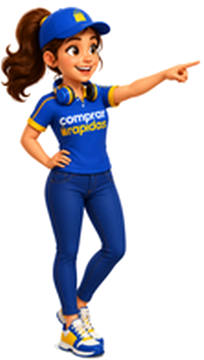
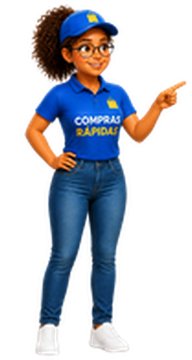
Guia: a Karol (cabelo cacheado e óculos) substitui a Lia nas 4 poses
Claude-Session: https://claude.ai/code/session_01DULqfom5GzjKtfTScVqHcy

diff --git a/js/tour/etapas.js b/js/tour/etapas.js
@@ -9,7 +9,7 @@
 //   botoes  quais botões aparecem: 'proximo', 'nao-mostrar' (boas-vindas), 'concluir' e 'desativar' (final)
 export const ETAPAS = [
   { id: 'boas-vindas', alvo: null, botoes: ['proximo', 'nao-mostrar'],
-    texto: 'Oi! Eu sou a <b>Lia</b>, sua guia na <b>Compras Rápidas</b>. Posso te mostrar a loja rapidinho?' },
+    texto: 'Oi! Eu sou a <b>Karol</b>, sua guia na <b>Compras Rápidas</b>. Posso te mostrar a loja rapidinho?' },
   { id: 'pesquisa', alvo: 'header form[role=search]', botoes: ['proximo'],
     texto: 'Procurando algo? Digite aqui na <b>pesquisa</b> o nome do produto e toque na lupa 🔍.' },
   { id: 'carrossel', alvo: '.car', botoes: ['proximo'],

diff --git a/js/tour/personagem.js b/js/tour/personagem.js
@@ -12,7 +12,7 @@
 //   };
 //
 // Se faltar alguma pose, o guia usa a imagem "parado" no lugar.
-// Personagem atual: a Lia (imagens em img/guia/, 204×360, olhando para a direita).
+// Personagem atual: a Karol (imagens em img/guia/, 192×360, olhando para a direita).
 const aqui = (f) => new URL('../../img/guia/' + f, import.meta.url).href;   // funciona em qualquer página do site
 export const IMAGENS = {
   parado: aqui('parado.png'),

diff --git a/PAINEL-ADMIN.md b/PAINEL-ADMIN.md
@@ -147,7 +147,7 @@ O gatilho que preenche os códigos é à prova de falha: um erro nele nunca impe
 
 ## Guia da loja (mascote)
 
-A **Lia** mostra a loja (imagens em `img/guia/`: parado, andando, apontando e acenando). Se as imagens forem tiradas de `personagem.js`, volta o boneco desenhado. Ele só aparece no **Início** e só é carregado depois que a página termina de abrir. Se der qualquer erro no guia, ele some e a loja continua normal.
+A **Karol** mostra a loja (imagens em `img/guia/`: parado, andando, apontando e acenando). Se as imagens forem tiradas de `personagem.js`, volta o boneco desenhado. Ele só aparece no **Início** e só é carregado depois que a página termina de abrir. Se der qualquer erro no guia, ele some e a loja continua normal.
 
 **Como funciona para o cliente**
 - **Primeira visita:** tour completo. Ele anda até cada parte (carrossel, categorias, ofertas, jogos, menu), escurece o resto da tela e aponta. O balão tem "Próximo", o X (pular) e o contador "2 de 7". Depois vêm "Instalar o app" e "Avisar de ofertas":
